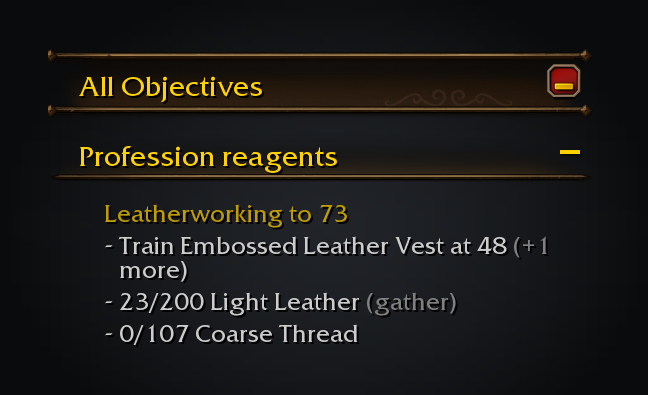
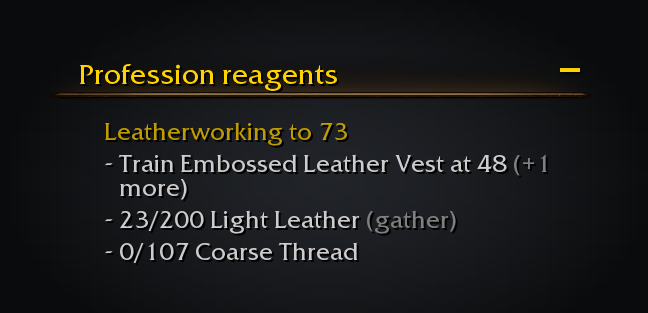
Render the standalone companion tracker in documentation (#63)
Update the screenshot renderer for the private tracker host and render
the companion without the native All Objectives container. The renderer
rejects native manager access. Verified two renders produce identical
artifacts.

Changed region(s): [[0.0926, 0.3738, 0.8951, 0.8626], [0.0617, 0.115, 0.9259, 0.3163], [0.8642, 0.3738, 0.8951, 0.4026]]

diff --git a/tools/screenshots.py b/tools/screenshots.py
@@ -481,6 +481,7 @@ env = setmetatable({
 		end,
 	},
 	EventUtil = {
+		ContinueAfterAllEvents = function(fn) fn() end,
 		ContinueOnAddOnLoaded = function(name, fn)
 			loaded[name] = fn
 		end,
@@ -636,7 +637,7 @@ env = setmetatable({
 	-- The frames the addon hooks: anything it touches is a recording stub.
 	ProfessionsFrame = Stub(),
 	ClassTrainerFrame = Stub(),
-	ObjectiveTrackerManager = Stub(),
+	ObjectiveTrackerManager = setmetatable({}, { __index = function() error("native tracker manager accessed") end }),
 	ObjectiveTrackerFrame = Stub(),
 	UIParent = Stub(),
 	GameTooltip = Stub(),
@@ -654,7 +655,11 @@ env = setmetatable({
 	end,
 })
 
-local ns = {}
+-- This renderer exercises Shopping.LayoutContents; native ownership is covered by tracker_host_spec.
+local ns = { TrackerHost = {
+	Attach = function(module) module.parentContainer = {} end,
+	IsAttached = function(module) return module.parentContainer ~= nil end,
+} }
 for _, file in ipairs(FILES) do
 	setfenv(assert(loadfile(file)), env)(ADDON, ns)
 end
@@ -1560,7 +1565,7 @@ def tracker_scene(ui, scene_data):
                 text = f"|cff{round(r * 255):02x}{round(g * 255):02x}{round(b * 255):02x}{text}|r"
             lines.append((text, line["dash"]))
         blocks.append(TrackerBlock(expand(ui, block["header"]), lines))
-    canvas, _ = objective_tracker(ui, [TrackerModule(tracker["header"], blocks)])
+    canvas, _ = objective_tracker(ui, [TrackerModule(tracker["header"], blocks)], container=False)
     return scene(ui, [(canvas, 0, 0)])
 
 
